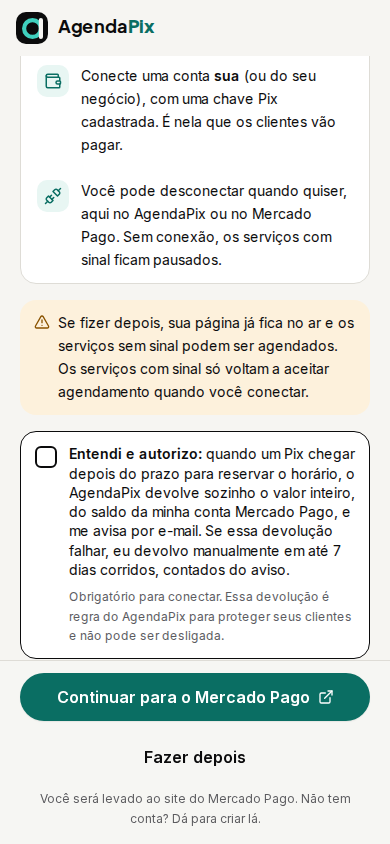
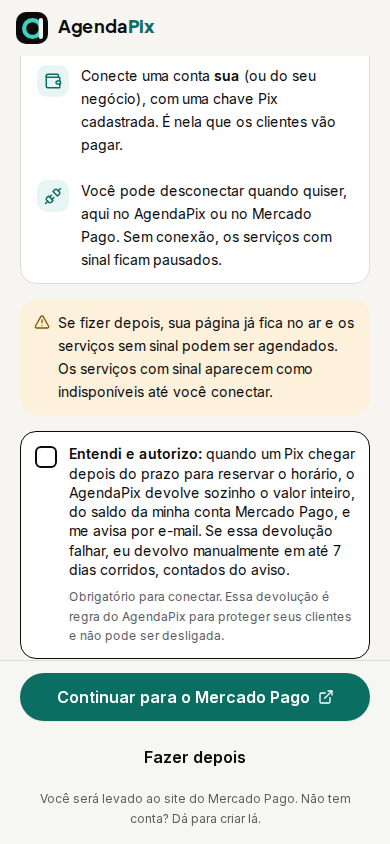
fix: clarify paused fallback and Mercado Pago skip copy
Without a store WhatsApp, the paused screens ask the customer to try later and never render an empty link. bookingsPaused stays optional until PR 90, where the required field wins.

Changed region(s): [[0.1538, 0.4313, 0.8308, 0.4929]]

diff --git a/tests/components/slot-link-customer.test.tsx b/tests/components/slot-link-customer.test.tsx
@@ -9,7 +9,7 @@ import { lockPayPayload, memorySlotLinkStores, readOrCreatePayKey, slotLinkSessi
 import { SlotLinkStorageSweep } from "@/components/slot-link/storage-sweep";
 import { SentLinks } from "@/components/slot-link/sent-links";
 import { createSlotLinkToken } from "../../lib/bookings/slot-link-token";
-import { CANCEL_EXPIRED, CANCEL_PAID, CONNECT_MERCADO_PAGO, CUSTOMER_BOOKINGS_PAUSED, CUSTOMER_CONFLICT_BODY, CUSTOMER_CONFLICT_TITLE, CUSTOMER_CPF_REQUIRED, CUSTOMER_IN_PROGRESS, CUSTOMER_RETRY_BODY, CUSTOMER_RETRY_TITLE, CUSTOMER_USED_TITLE, OWNER_NETWORK, REISSUE_BODY, REISSUE_EXPIRED, REISSUE_IN_PROGRESS, REISSUE_MP, REISSUE_PAID, REISSUE_TAKEN, REISSUE_TITLE, formatDayMonth, isoDateInZone, weekdayShort } from "@/lib/slot-link/copy";
+import { CANCEL_EXPIRED, CANCEL_PAID, CONNECT_MERCADO_PAGO, CUSTOMER_BOOKINGS_PAUSED, CUSTOMER_CONFLICT_BODY, CUSTOMER_CONFLICT_TITLE, CUSTOMER_CPF_REQUIRED, CUSTOMER_IN_PROGRESS, CUSTOMER_PAUSED_LATER, CUSTOMER_PAUSED_RECEIPT, CUSTOMER_RETRY_BODY, CUSTOMER_RETRY_TITLE, CUSTOMER_USED_TITLE, OWNER_NETWORK, REISSUE_BODY, REISSUE_EXPIRED, REISSUE_IN_PROGRESS, REISSUE_MP, REISSUE_PAID, REISSUE_TAKEN, REISSUE_TITLE, formatDayMonth, isoDateInZone, weekdayShort } from "@/lib/slot-link/copy";
 
 vi.mock("sonner", () => ({ toast: { success: vi.fn(), error: vi.fn() } }));
 
@@ -425,6 +425,26 @@ describe("página da cliente", () => {
     expect(screen.queryByText(/assinatura|teste grátis/i)).toBeNull();
   });
 
+  it("GET 403 bookings_paused sem WhatsApp não abre link vazio", async () => {
+    const fetchImpl = vi.fn(async () => json(403, { error: { code: "bookings_paused", message: "interno" } }));
+    const { container } = render(
+      <SlotLinkCustomer
+        slug="salao"
+        token={token}
+        timezone="America/Sao_Paulo"
+        businessName="Salao da Ana"
+        contactWhatsapp=""
+        fetchImpl={fetchImpl}
+        now={() => new Date("2030-10-01T12:00:00.000Z")}
+      />,
+    );
+    expect(await screen.findByRole("heading", { name: CUSTOMER_BOOKINGS_PAUSED })).toBeVisible();
+    expect(screen.getByText(CUSTOMER_PAUSED_LATER)).toBeVisible();
+    expect(screen.getByText(CUSTOMER_PAUSED_RECEIPT)).toBeVisible();
+    expect(screen.queryByRole("link", { name: "Falar com a loja" })).toBeNull();
+    expect(container.querySelector('a[href=""], a[href="#"]')).toBeNull();
+  });
+
   it("bookingsPaused no GET mostra a pausa, e o Pix já começado continua no formulário", async () => {
     const stores = memorySlotLinkStores();
     const paused = vi.fn(async () => json(200, { ...openBody(), bookingsPaused: true }));
@@ -525,6 +545,25 @@ describe("página da cliente", () => {
 });
 
 describe("estados e rodapé", () => {
+  it("pausa sem WhatsApp pede para tentar de novo e não abre link vazio", () => {
+    const { container, rerender } = render(<SlotLinkNotice screen={{ kind: "paused", whatsapp: null, publicPath: "/salao" }} />);
+    for (const whatsapp of [null, "", "123", "   "]) {
+      rerender(<SlotLinkNotice screen={{ kind: "paused", whatsapp, publicPath: "/salao" }} />);
+      expect(screen.getByRole("heading", { name: CUSTOMER_BOOKINGS_PAUSED })).toBeVisible();
+      expect(screen.getByText(CUSTOMER_PAUSED_LATER)).toBeVisible();
+      expect(screen.getByText(CUSTOMER_PAUSED_RECEIPT)).toBeVisible();
+      expect(screen.queryByRole("link", { name: "Falar com a loja" })).toBeNull();
+      expect(container.querySelector('a[href=""], a[href="#"]')).toBeNull();
+      expect(container.querySelector("a")).toBeNull();
+    }
+    rerender(<SlotLinkNotice screen={{ kind: "paused", whatsapp: "+5511988887777", publicPath: "/salao" }} />);
+    const talk = screen.getByRole("link", { name: "Falar com a loja" });
+    expect(talk).toHaveAttribute("href", "https://wa.me/5511988887777");
+    expect(talk.className).toMatch(/bg-pix-deep/);
+    expect(screen.getByText(CUSTOMER_PAUSED_RECEIPT)).toBeVisible();
+    expect(screen.queryByText(CUSTOMER_PAUSED_LATER)).toBeNull();
+  });
+
   it("cada estado tem título e o caminho da agenda sem o token", () => {
     const { rerender } = render(<SlotLinkNotice screen={{ kind: "taken", publicPath: "/salao" }} />);
     expect(screen.getByRole("heading", { name: "Esse horário acabou de ser reservado." })).toBeVisible();

diff --git a/tests/components/paused-state.test.tsx b/tests/components/paused-state.test.tsx
@@ -2,7 +2,7 @@
 import { afterEach, describe, expect, it } from "vitest";
 import { cleanup, render, screen } from "@testing-library/react";
 import { PausedState } from "@/components/booking/PausedState";
-import { BOOKINGS_PAUSED_COPY } from "@/components/booking/customer-copy";
+import { BOOKINGS_PAUSED_COPY, BOOKINGS_PAUSED_LATER, BOOKINGS_PAUSED_RECEIPT } from "@/components/booking/customer-copy";
 
 const service = {
   id: "6b0b4a2e-1c3d-4e5f-8a9b-0c1d2e3f4a5b",
@@ -28,10 +28,15 @@ describe("agenda pausada na página pública", () => {
     expect(screen.queryByText(/assinatura|teste grátis|pagamento do dono|Chamar no WhatsApp|Agendamento online pausado/i)).toBeNull();
   });
 
-  it("sem WhatsApp não inventa botão de contato", () => {
-    render(<PausedState businessName="Salao da Ana" contactWhatsapp={null} services={[]} />);
-    expect(screen.getByRole("heading", { name: BOOKINGS_PAUSED_COPY })).toBeVisible();
-    expect(screen.queryByRole("link", { name: "Falar com a loja" })).toBeNull();
-    expect(screen.getByText("Fale com Salao da Ana pelos canais de sempre.")).toBeVisible();
+  it("sem WhatsApp pede para tentar de novo e não abre link vazio", () => {
+    const { container, rerender } = render(<PausedState businessName="Salao da Ana" contactWhatsapp={null} services={[]} />);
+    for (const phone of [null, "", "123", "   "]) {
+      rerender(<PausedState businessName="Salao da Ana" contactWhatsapp={phone} services={[]} />);
+      expect(screen.getByRole("heading", { name: BOOKINGS_PAUSED_COPY })).toBeVisible();
+      expect(screen.getByText(BOOKINGS_PAUSED_LATER)).toBeVisible();
+      expect(screen.getByText(BOOKINGS_PAUSED_RECEIPT)).toBeVisible();
+      expect(screen.queryByRole("link")).toBeNull();
+      expect(container.querySelector("a")).toBeNull();
+    }
   });
 });

diff --git a/components/booking/PausedState.tsx b/components/booking/PausedState.tsx
@@ -7,7 +7,7 @@ import { Button } from "@/components/ui/button";
 import type { PublicService } from "./types";
 import { formatCurrency, formatDuration } from "./formatters";
 import { whatsappHref } from "./booking-error";
-import { BOOKINGS_PAUSED_COPY, TALK_TO_STORE } from "./customer-copy";
+import { BOOKINGS_PAUSED_COPY, BOOKINGS_PAUSED_LATER, BOOKINGS_PAUSED_RECEIPT, TALK_TO_STORE } from "./customer-copy";
 
 interface PausedStateProps {
   businessName: string;
@@ -18,7 +18,7 @@ interface PausedStateProps {
 }
 
 /** Página pública quando o negócio não aceita novos agendamentos. */
-export function PausedState({ businessName, contactWhatsapp, services, autoFocus = false }: PausedStateProps) {
+export function PausedState({ contactWhatsapp, services, autoFocus = false }: PausedStateProps) {
   const titleRef = useRef<HTMLHeadingElement>(null);
   const href = whatsappHref(contactWhatsapp);
 
@@ -40,9 +40,9 @@ export function PausedState({ businessName, contactWhatsapp, services, autoFocus
             <a href={href} target="_blank" rel="noopener noreferrer">{TALK_TO_STORE}</a>
           </Button>
         ) : (
-          <p className="mt-6 text-sm text-muted">Fale com {businessName} pelos canais de sempre.</p>
+          <p className="mt-6 text-sm text-muted">{BOOKINGS_PAUSED_LATER}</p>
         )}
-        <p className="mt-4 text-[13px] text-muted">Já agendou? Seu comprovante continua valendo.</p>
+        <p className="mt-4 text-[13px] text-muted">{BOOKINGS_PAUSED_RECEIPT}</p>
       </section>
 
       {services.length > 0 ? (

diff --git a/lib/slot-link/copy.ts b/lib/slot-link/copy.ts
@@ -85,6 +85,8 @@ export function updatedLinkMessage(businessName: string | null) {
 export const CUSTOMER_OFFLINE = "Sem conexão. Verifique sua internet e tente de novo.";
 export const CUSTOMER_MP = "Esta loja não está recebendo sinal agora. Fale com a loja.";
 export const CUSTOMER_BOOKINGS_PAUSED = "Esta agenda não está aceitando novos agendamentos agora.";
+export const CUSTOMER_PAUSED_LATER = "Tente de novo mais tarde.";
+export const CUSTOMER_PAUSED_RECEIPT = "Já agendou? Seu comprovante continua valendo.";
 export const CUSTOMER_IN_PROGRESS = "Alguém está pagando este horário agora. Se o pagamento não for concluído, ele volta a ficar disponível em alguns minutos.";
 export const CUSTOMER_CONFLICT_TITLE = "Você já começou o pagamento deste horário com outros dados.";
 export const CUSTOMER_CONFLICT_BODY = "Para corrigir nome ou WhatsApp, fale com a loja depois de pagar.";

diff --git a/tests/unit/mercadopago-ui.test.ts b/tests/unit/mercadopago-ui.test.ts
@@ -133,7 +133,7 @@ describe("Mercado Pago connect consent", () => {
     expect(html).toContain('href="/onboarding/concluir"');
     expect(html).toContain("Último passo: receber o sinal no Pix");
     expect(html).toContain("Fazer depois");
-    expect(html).toContain("Se fizer depois, sua página já fica no ar e os serviços sem sinal podem ser agendados. Os serviços com sinal só voltam a aceitar agendamento quando você conectar.");
+    expect(html).toContain("Se fizer depois, sua página já fica no ar e os serviços sem sinal podem ser agendados. Os serviços com sinal aparecem como indisponíveis até você conectar.");
     expect(html).not.toContain("recomendado");
     expect(html).not.toContain("Agora não");
     expect(html).toContain("data-mp-sticky");

diff --git a/components/slot-link/slot-link-notice.tsx b/components/slot-link/slot-link-notice.tsx
@@ -6,6 +6,8 @@ import { Button } from "@/components/ui/button";
 import {
   CONTINUE_PAYMENT,
   CUSTOMER_BOOKINGS_PAUSED,
+  CUSTOMER_PAUSED_LATER,
+  CUSTOMER_PAUSED_RECEIPT,
   CUSTOMER_CONFLICT_BODY,
   CUSTOMER_CONFLICT_TITLE,
   CUSTOMER_EXPIRED_TITLE,
@@ -105,7 +107,10 @@ export function SlotLinkNotice({
           <Button asChild variant="pixDeep" size="lg" className="w-full">
             <a href={whatsapp} target="_blank" rel="noopener noreferrer" referrerPolicy="no-referrer">{TALK_TO_STORE}</a>
           </Button>
-        ) : null}
+        ) : (
+          <p className="text-sm text-muted">{CUSTOMER_PAUSED_LATER}</p>
+        )}
+        <p className="text-sm text-muted">{CUSTOMER_PAUSED_RECEIPT}</p>
       </NoticeFrame>
     );
   }

diff --git a/components/payments/mp-onboarding-step.tsx b/components/payments/mp-onboarding-step.tsx
@@ -64,7 +64,7 @@ function SkipNote() {
   return (
     <p id="mp-skip-note" className="mt-4 flex items-start gap-2 rounded-card bg-warning-soft px-3.5 py-3 text-sm leading-relaxed text-ink">
       <TriangleAlert aria-hidden="true" className="mt-0.5 size-4 shrink-0 text-warning" />
-      <span>Se fizer depois, sua página já fica no ar e os serviços sem sinal podem ser agendados. Os serviços com sinal só voltam a aceitar agendamento quando você conectar.</span>
+      <span>Se fizer depois, sua página já fica no ar e os serviços sem sinal podem ser agendados. Os serviços com sinal aparecem como indisponíveis até você conectar.</span>
     </p>
   );
 }

diff --git a/components/booking/customer-copy.ts b/components/booking/customer-copy.ts
@@ -32,6 +32,10 @@ export const TALK_TO_STORE = "Falar com a loja";
 /** 403 `bookings_paused` na página pública. Não cita assinatura nem pagamento do dono. */
 export const BOOKINGS_PAUSED_COPY = "Esta agenda não está aceitando novos agendamentos agora.";
 
+export const BOOKINGS_PAUSED_LATER = "Tente de novo mais tarde.";
+
+export const BOOKINGS_PAUSED_RECEIPT = "Já agendou? Seu comprovante continua valendo.";
+
 export const BUSINESS_LOAD_COPY = "Não foi possível carregar os serviços deste estabelecimento.";
 
 export const BUSINESS_SLOW_COPY = "A conexão demorou muito para responder. Verifique sua internet e tente novamente.";

diff --git a/lib/contracts/slot-link.ts b/lib/contracts/slot-link.ts
@@ -164,7 +164,8 @@ export const slotLinkOpenResponseSchema = z.object({
   status: slotLinkStatusSchema,
   requiresPayerCpf: z.boolean(),
   /**
-   * Agenda fechada para horário novo. Ausente enquanto o backend não envia.
+   * Agenda fechada para horário novo. Opcional neste master: o GET ainda não envia o campo.
+   * No conflito com a #90, fica `z.boolean()` obrigatório.
    * Pix já começado neste link continua no formulário.
    */
   bookingsPaused: z.boolean().optional(),

diff --git a/docs/CONTRATOS.md b/docs/CONTRATOS.md
@@ -306,7 +306,7 @@ Erros deste fluxo usam `{ error: { code, message, ... } }`. `409 policy_changed`
 
 `businesses.trial_ends_at` é obrigatório. Negócio novo termina às 23:59:59 do 7º dia local. Negócio já existente recebe `now() + interval '7 days'` na migration `0011`. `subscriptions` guarda status `trialing | active | past_due | canceled` e `provider` (`manual` | `pix_platform`, ou nulo enquanto ninguém ativou). `GET /api/businesses/{businessId}/billing` exige sessão do dono e responde `{ state, trialEndsAt, daysLeft, bookingsPaused, plan: { name: "AgendaPix", priceCents: 4900 }, subscription, checkout }`. `state` é `trial`, `trial_ending`, `trial_last_day`, `paused` ou `active`. O objeto `checkout` está na seção da assinatura manual.
 
-Agenda pausada: `createBooking` responde `403 bookings_paused` antes do limite de tentativas. Replay da mesma `Idempotency-Key` não é bloqueado. Pix já gerado ainda confirma. Disponibilidade pública fica vazia com `bookingsPaused: true`. A página pública mostra “Esta agenda não está aceitando novos agendamentos agora.” e o botão “Falar com a loja”, que abre o WhatsApp da loja. Esse texto não cita assinatura nem pagamento do dono.
+Agenda pausada: `createBooking` responde `403 bookings_paused` antes do limite de tentativas. Replay da mesma `Idempotency-Key` não é bloqueado. Pix já gerado ainda confirma. Disponibilidade pública fica vazia com `bookingsPaused: true`. A página pública mostra “Esta agenda não está aceitando novos agendamentos agora.” e o botão “Falar com a loja”, que abre o WhatsApp da loja. Sem WhatsApp, a mesma frase segue, com “Tente de novo mais tarde.”, sem botão e sem link vazio. “Já agendou? Seu comprovante continua valendo.” permanece. Esse texto não cita assinatura nem pagamento do dono.
 
 `getDepositBookability` em `lib/bookings/deposit-bookability.ts` continua retornando ok. A conta Mercado Pago entra por `assertMpConnectedForDeposit` e `getServiceBlockedReason`: serviço com sinal, sem conexão, responde `409` `mp_account_not_connected` e a listagem marca `bookable: false`. Conta `connected` cujo `consent_version` não é `2026-10-09.v4`, ou sem `auto_refund_ack_at`, responde `409` `mp_consent_outdated` com a mensagem "Aceite o texto novo da devolução automática para voltar a receber sinal." e a listagem marca `bookable: false`. Com `NODE_ENV=production` e `MERCADOPAGO_ENV=production`, conta conectada com `live_mode` false responde `409` `mp_account_test_mode` e a listagem marca `bookable: false` com esse `blockedReason`. Fora disso, `live_mode` false só aparece como aviso na tela. Essa checagem só vale para reserva nova e para ativar serviço com sinal. Repetir a mesma chave de idempotência, confirmar Pix já gerado e devolver não passam por ela. Não há checagem de chave Pix.
 
@@ -493,7 +493,7 @@ Códigos depois que o hash confere: `410 link_expired`, `409 link_used`, `409 li
 
 A lista não recebe o token, então não há “Copiar link” nela. `replaced` aparece como “Substituído”, sem gerar de novo nem cancelar. O `pending` novo fica acima (`createdAt` desc). `429 rate_limited` e `5xx` usam o mesmo texto de falha ao gerar. `409 link_used`, `410 link_expired` e `409 mp_not_connected` ficam na confirmação; ao fechá-la a lista recarrega. O cancelamento do dono faz o mesmo com `link_used` e `link_expired`.
 
-Para a cliente, só `409 link_replaced` abre “Este link foi atualizado. Peça o link novo para {loja}.” Não há `reason`. `link_cancelled` continua “Este link não está mais disponível.” A tela de expirado só entra com `410 link_expired` (ou horário de atendimento que já começou). `429` e `5xx` não são erro final: “Não conseguimos carregar agora.” `409 idempotency_conflict` segue valendo quando a mesma chave volta com outro nome, WhatsApp ou política. `403 bookings_paused` mostra “Esta agenda não está aceitando novos agendamentos agora.” Se a loja tem WhatsApp, o botão “Falar com a loja” abre o `wa.me`. O texto do servidor não aparece, e a tela não cita assinatura nem pagamento do dono. O GET pode trazer `bookingsPaused` (opcional). Com `true`, a mesma tela entra, exceto quando já existe um Pix começado neste link: o formulário continua para retomar o pagamento.
+Para a cliente, só `409 link_replaced` abre “Este link foi atualizado. Peça o link novo para {loja}.” Não há `reason`. `link_cancelled` continua “Este link não está mais disponível.” A tela de expirado só entra com `410 link_expired` (ou horário de atendimento que já começou). `429` e `5xx` não são erro final: “Não conseguimos carregar agora.” `409 idempotency_conflict` segue valendo quando a mesma chave volta com outro nome, WhatsApp ou política. `403 bookings_paused` mostra “Esta agenda não está aceitando novos agendamentos agora.” Se a loja tem WhatsApp, o botão “Falar com a loja” abre o `wa.me`. Sem WhatsApp, entra “Tente de novo mais tarde.”, sem botão e sem link vazio, e “Já agendou? Seu comprovante continua valendo.” permanece. O texto do servidor não aparece, e a tela não cita assinatura nem pagamento do dono. O GET pode trazer `bookingsPaused`. Neste master o campo é opcional, porque a resposta ainda não o envia. No conflito com a #90, fica o `z.boolean()` obrigatório de lá. Com `true`, a mesma tela entra, exceto quando já existe um Pix começado neste link: o formulário continua para retomar o pagamento.
 
 No navegador, `agendapix.slot-link.pay.` + sha256 do token fica no localStorage com a Idempotency-Key, nome, WhatsApp, hash da política e o prazo da retomada: o maior entre o hold da reserva e `expiresAt` do link mais a janela do hold. Sem CPF e sem `accessToken`. O `accessToken` fica só no sessionStorage, em `agendapix.slot-link.session.` + o mesmo hash. `booking_session_{slug}` também é sessionStorage. A abertura do app apaga `booking_session_*` vencido no sessionStorage e no localStorage. Se já houver token guardado para o mesmo `bookingId`, a resposta nova não substitui esse token. Outro `bookingId`, ou a ausência de token, grava o da resposta. `generateMetadata` usa a chave slug + hash do token. Cache positivo (60 s): devolve a prévia completa sem banco e sem limitador. Cache negativo (5 s): devolve só nome e logo da loja. Sem cache, se o balde daquela identidade já estourou, devolve o genérico sem consultar o token. Se não estourou, consulta. Achou: grava o positivo e não consome o balde; a prévia sai de `readSlotLinkPreview` sem `probeLimit`. Não achou: consome o escopo `slot-link-preview` (`SLOT_LINK_OPEN_PER_CLIENT`) da `bookingClientIdentity` e grava o negativo. Sem identidade o balde é `metadata-no-identity`, separado das identidades e do balde global anônimo. O mapa de tokens tem tetos separados de 256 chaves válidas e 256 de “não achou” (LRU): token falso não expulsa prévia válida. Nome e logo ficam noutro mapa desta instância, 90 s por slug que existe e 30 s quando o slug não existe, cada um com teto de 256. Com o balde estourado a página devolve o genérico fixo da AgendaPix, sem logo e sem SELECT em `businesses`. Trocar nome, slug ou logo apaga essa entrada. Se a leitura do balde falhar, a prévia genérica segue e o processo registra um aviso sem token nem hash.
 

diff --git a/docs/pedidos.md b/docs/pedidos.md
@@ -2,7 +2,7 @@
 
 ## P11 — Cliente: 403 bookings_paused
 
-Estado: neste branch de textos, sem merge. A página pública e a tela do link de horário tratam o código `bookings_paused` com “Esta agenda não está aceitando novos agendamentos agora.” e o botão “Falar com a loja”. Depende da PR #90 para o GET do link enviar `bookingsPaused` e para o POST soltar o claim ao recusar. No master atual o POST de pagamento já pode devolver o código via `createBooking`. O campo no GET fica opcional até a #90.
+Estado: neste branch de textos, sem merge. A página pública e a tela do link de horário tratam o código `bookings_paused` com “Esta agenda não está aceitando novos agendamentos agora.” e o botão “Falar com a loja”. Depende da PR #90 para o GET do link enviar `bookingsPaused` e para o POST soltar o claim ao recusar. No master atual o POST de pagamento já pode devolver o código via `createBooking`. O campo no GET fica opcional até a #90. No conflito de merge, fica o `z.boolean()` obrigatório da #90. Sem WhatsApp, a pausa mostra “Tente de novo mais tarde.”, sem botão.
 
 ## P10 — Contrato: boot PKCE, cache de alias e dedupe do mp-connect
 
